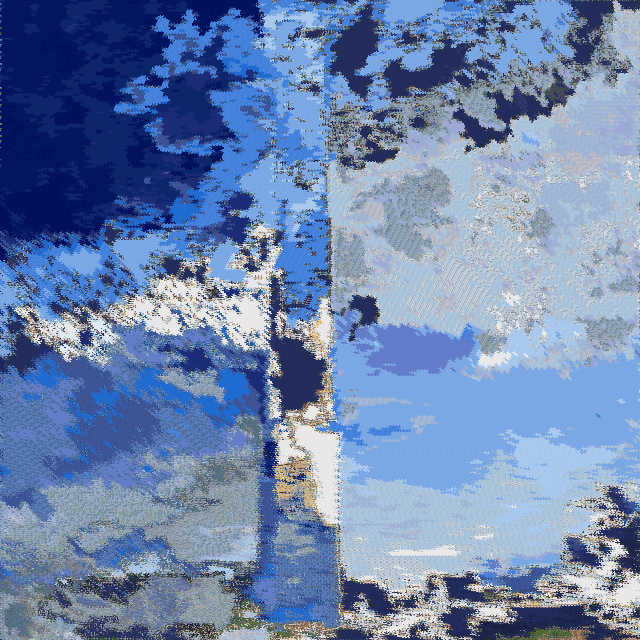
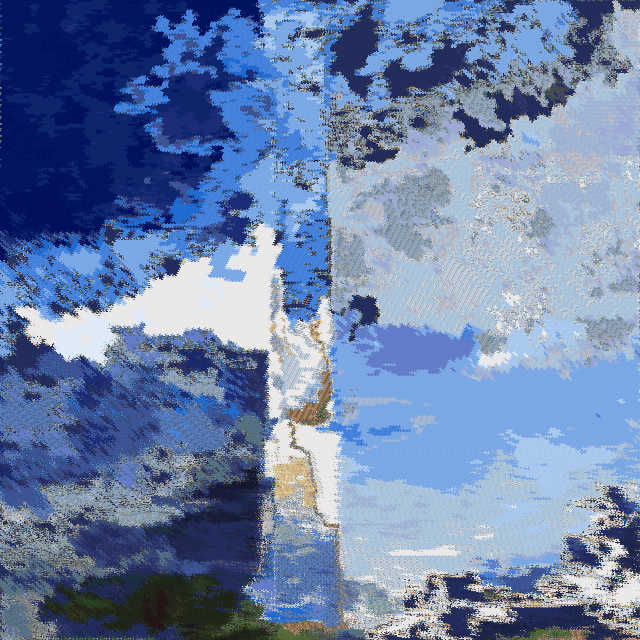
0078 - node --harmony /index.js

Changed region(s): [[0.0, 0.3438, 0.6562, 1.0], [0.7812, 0.0, 0.8438, 0.0312]]

diff --git a/sketches/0078/index.js b/sketches/0078/index.js
@@ -182,7 +182,7 @@ co(function*(){
 			var mmm = 0;
 
 			for(var p=0; p<lastColor.length; p++){
-				var mp = score(lastColor[p], ccc) * (p+1);
+				var mp = score(lastColor[p], ccc) * (lastColor.length - p);
 				mmm += mp;
 			}
 
